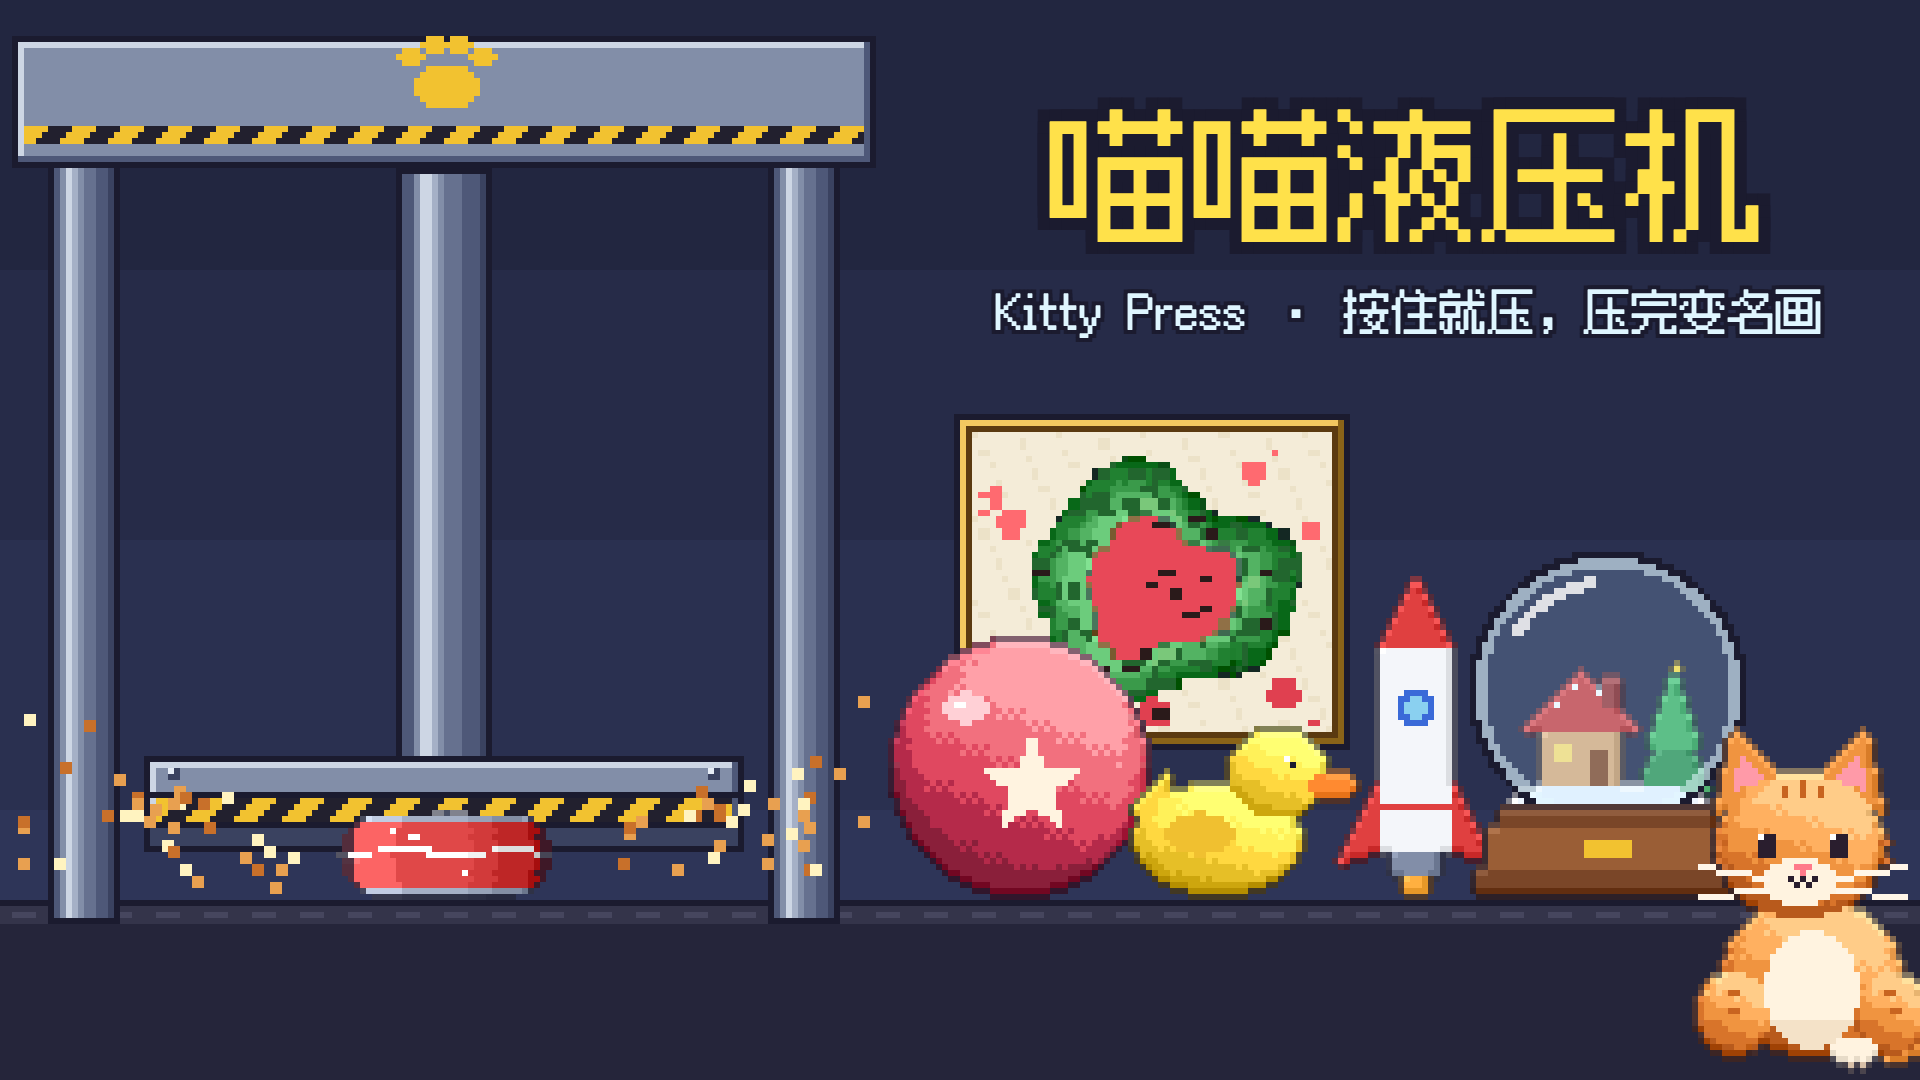
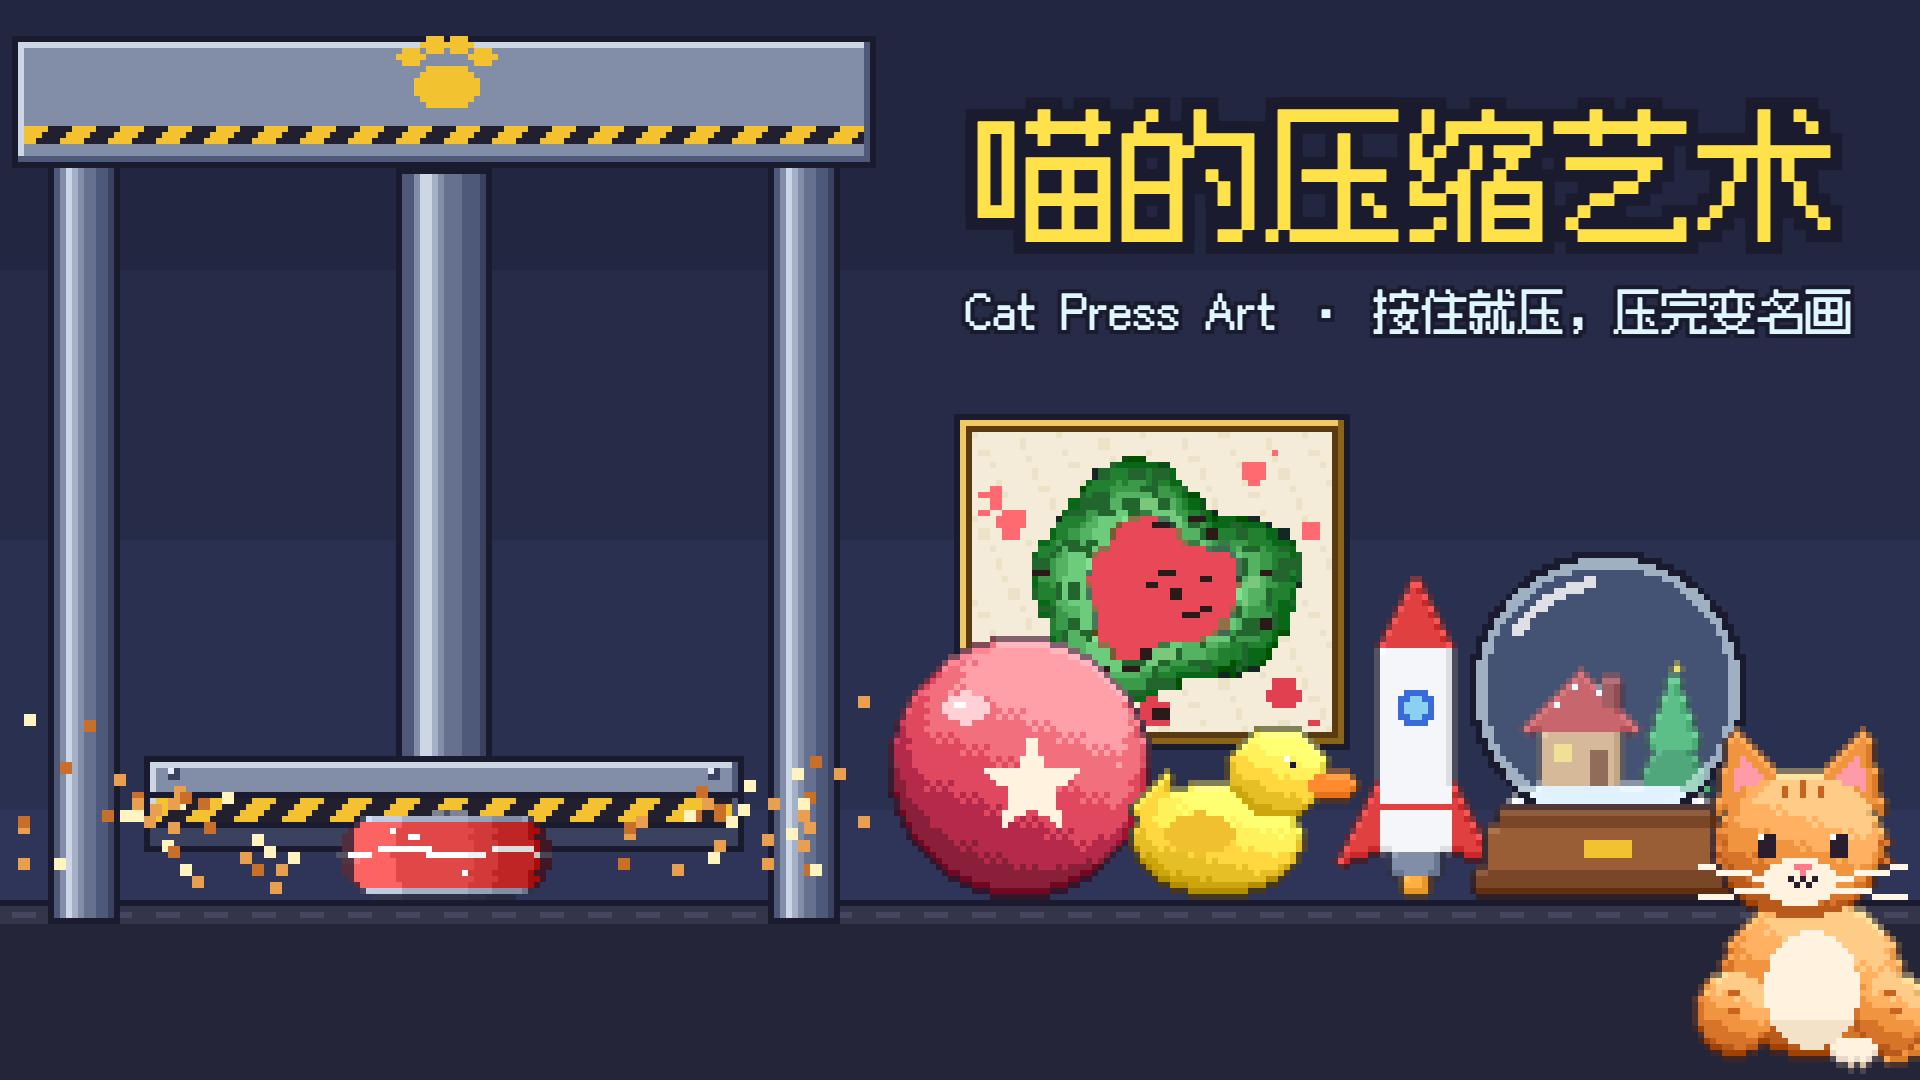
Rename to 喵的压缩艺术 (Cat Press Art)
Page title, share card, share text and cover now use the new name. The save
key stays kitty-press- so existing progress carries over.

Changed region(s): [[0.5, 0.0917, 0.9688, 0.3361]]

diff --git a/index.html b/index.html
@@ -5,9 +5,9 @@
 <meta name="viewport" content="width=device-width, initial-scale=1, maximum-scale=1, user-scalable=no, viewport-fit=cover">
 <meta name="theme-color" content="#140c2a">
 <meta name="description" content="按住就压，看看它会怎么碎。">
-<title>喵喵液压机 Kitty Press</title>
+<title>喵的压缩艺术 Cat Press Art</title>
 <meta property="og:type" content="website">
-<meta property="og:title" content="喵喵液压机 Kitty Press">
+<meta property="og:title" content="喵的压缩艺术 Cat Press Art">
 <meta property="og:description" content="按住就压，看看它会怎么碎。">
 <meta property="og:url" content="https://www.aiwanna.games/games/game-fa168b428022f28c">
 <meta property="og:image" content="https://grrreymane.github.io/KittyPress/cover.png">
@@ -33,7 +33,7 @@
 </style>
 </head>
 <body>
-<div id="wrap"><canvas id="c" aria-label="喵喵液压机游戏画面"></canvas></div>
+<div id="wrap"><canvas id="c" aria-label="喵的压缩艺术游戏画面"></canvas></div>
 <script>
 // If the game fails to start or keeps crashing, show the error (players can screenshot it) instead of a blank screen.
 window.__gameErr = function (msg) {
@@ -2216,7 +2216,7 @@ function drawQR(qx, qy) {
 function makeShare() {
   TQ.length = 0; g.clearRect(0, 0, W, H);
   ['#222640', '#262b48', '#2a3050', '#2e3558'].forEach((c, i) => { g.fillStyle = c; g.fillRect(0, i * 80, W, 80); });
-  txt('喵喵液压机', 90, 24, 14, '#ffe14a');
+  txt('喵的压缩艺术', 90, 24, 14, '#ffe14a');
   g.drawImage(I.cat, 66, 44);
   panel(10, 110, 160, 140);
   txt('压扁了', 90, 132, 9, '#8a6a4a', 'center', null); txt(String(total), 90, 164, 22, '#c0392b', 'center', null);
@@ -2230,7 +2230,7 @@ function makeShare() {
   K = S2;
   for (const t of TQ) { const c = textSprite(t), w_ = c.w - 2 * c.pad; o.globalAlpha = t.alpha; o.drawImage(c.cv, R(t.x * K - c.pad - (t.align === 'center' ? w_ / 2 : t.align === 'right' ? w_ : 0)), R(t.y * K - c.h / 2)); }
   o.globalAlpha = 1; K = k0; TQ.length = 0; g.clearRect(0, 0, W, H);
-  showShare(out, '我在喵喵液压机里压扁了 ' + total + ' 件东西，你也来试试：');
+  showShare(out, '我在喵的压缩艺术里压扁了 ' + total + ' 件东西，你也来试试：');
 }
 let shareEl = null;
 function showShare(cvs, msg) {
@@ -2248,7 +2248,7 @@ function showShare(cvs, msg) {
     cvs.toBlob(blob => {
       if (!blob || !navigator.canShare) return;
       const file = new File([blob], name, { type: 'image/png' });
-      if (navigator.canShare({ files: [file] })) btn('分享给朋友', '#4a88e0', () => { navigator.share({ files: [file], title: '喵喵液压机', text: msg + SHARE_URL }).catch(() => {}); });
+      if (navigator.canShare({ files: [file] })) btn('分享给朋友', '#4a88e0', () => { navigator.share({ files: [file], title: '喵的压缩艺术', text: msg + SHARE_URL }).catch(() => {}); });
     });
   } catch (e) {}
   btn('关闭', '#8a8a9a', () => { el.remove(); shareEl = null; });
@@ -2280,8 +2280,8 @@ function renderCover() {
   [[16, 26, 5, 24], [16, 28, 5, 29], [28, 26, 39, 24], [28, 28, 39, 29]].forEach(([a, b, c2, d]) => pxLine(278 + a, 120 + b, 278 + c2, 120 + d, '#fff6e8'));
   const big = mk(CW * S, CH * S), bx = big.getContext('2d'); bx.imageSmoothingEnabled = false; bx.drawImage(c, 0, 0, CW * S, CH * S);
   const T = (s, x, y, px, col) => { bx.font = px + 'px ' + FONT; bx.textAlign = 'center'; bx.fillStyle = OUT; for (let dy = -1; dy <= 1; dy++) for (let dx = -1; dx <= 1; dx++) bx.fillText(s, x + dx * px / 12, y + dy * px / 12); bx.fillStyle = col; bx.fillText(s, x, y); };
-  T('喵喵液压机', 1410, 230, 144, '#ffe14a');
-  T('Kitty Press · 按住就压，压完变名画', 1410, 330, 48, '#dff6ff');
+  T('喵的压缩艺术', 1410, 230, 144, '#ffe14a');
+  T('Cat Press Art · 按住就压，压完变名画', 1410, 330, 48, '#dff6ff');
   document.body.innerHTML = ''; big.style.cssText = 'position:fixed;left:0;top:0;width:1920px;height:1080px'; document.body.appendChild(big);
   document.title = 'COVER READY';
 }

diff --git a/README.md b/README.md
@@ -1,6 +1,6 @@
-# 喵喵液压机 Kitty Press
+# 喵的压缩艺术 Cat Press Art
 
-![喵喵液压机 Kitty Press](cover.png)
+![喵的压缩艺术 Cat Press Art](cover.png)
 
 按住就压，看看它会怎么碎。
 
